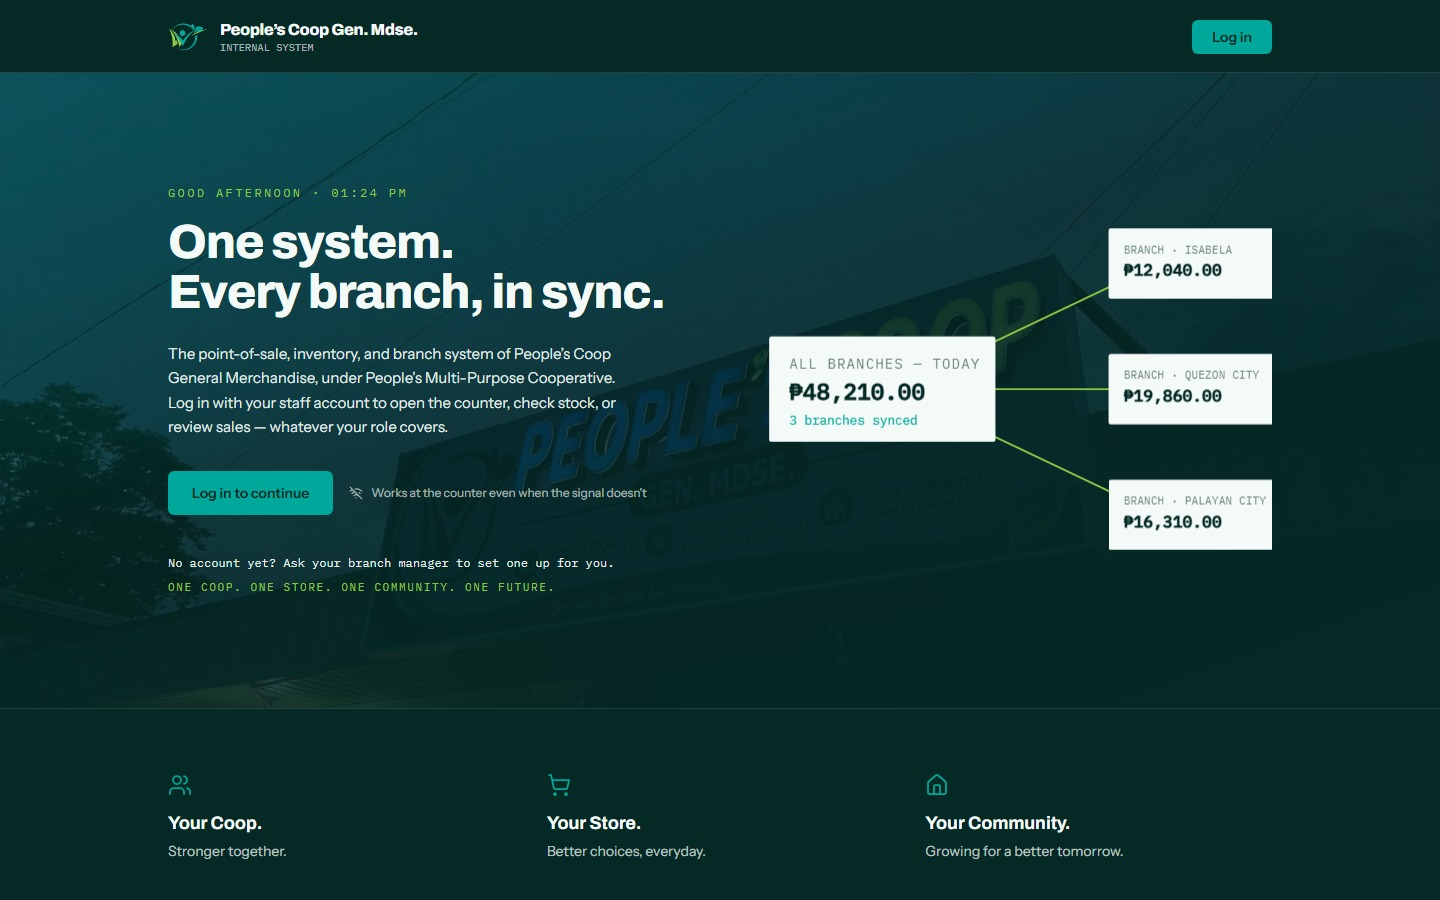
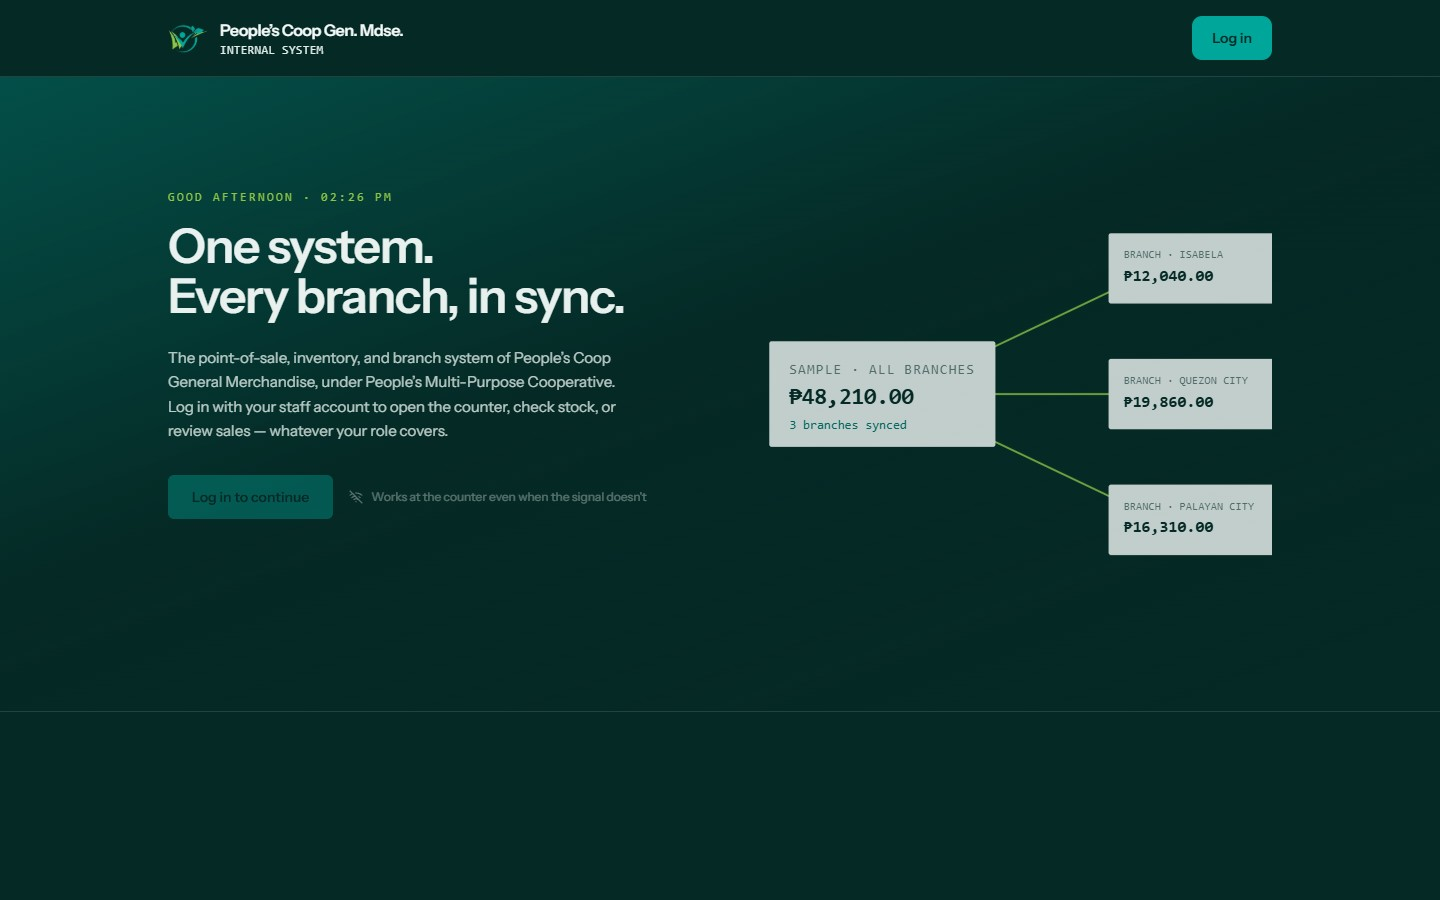
Use live-site screenshots and drop test-count claims
- Retake PIS, General Merchandise, WorkForce and gym landing screenshots
  from the live public pages; regenerate optimized copies and manifest
- Remove gym 119 Pest, DepEd 19 PHPUnit and WorkForce 480-test claims and
  the PHPUnit & Pest / Pest tags from site copy and the résumé PDF
- Update the spec tests that asserted the old text

diff --git a/src/data/projectData.js b/src/data/projectData.js
@@ -84,7 +84,7 @@ export const projectDetails = {
       "Deployed payroll preparation: replaced the input table with a four-step payroll wizard that pays hours from the DTR, one batch per month and cutoff, with office assignment, DTR mismatch flags, rate-change checks, peso-cent rounding, saved calculation snapshots, type-over on any number, DOLE holiday-work pay, and server-side 13th-month draft recalculation. Pre-hire payroll days and Export all DTRs were added.",
       "Deployed management exports: implemented monthly Excel workbooks in the October layout with office/cutoff sections, deduction details, typed totals and adjustment columns, sign-offs, a Prepared by signature, and layout/capacity safeguards; corrected workbook formatting and voucher balance.",
       "Deployed HR and payslip controls: implemented employee identity confirmation, HR approval/return and office transfers, pre-setup payroll-office assignment, required private signature uploads, and finalized-only employee payslip access while retaining existing credentials, attendance links, and historical payroll.",
-      "Reliability and release scope: improved request validation, atomic payroll persistence, loading/navigation behavior, and keyboard/form accessibility. Schedules, task board, final DTR review, the payroll wizard, 13th-month recalculation, Excel exports, and HR account setup are deployed; the latest release passed 480 of 480 PHP tests. The Dues page, Payroll day button, and Step 3 screen are logged without an on-screen live check. Payroll compliance is not independently certified."
+      "Reliability and release scope: improved request validation, atomic payroll persistence, loading/navigation behavior, and keyboard/form accessibility. Schedules, task board, final DTR review, the payroll wizard, 13th-month recalculation, Excel exports, and HR account setup are deployed. The Dues page, Payroll day button, and Step 3 screen are logged without an on-screen live check. Payroll compliance is not independently certified."
     ],
     stack: ["Laravel", "React", "Inertia.js", "Tailwind CSS"],
     previewCallout: {
@@ -159,33 +159,32 @@ export const projectDetails = {
   },
   gym: {
     decisionSummary: "Rebuild the tightly coupled PHP platform on Laravel rather than patching its security issues individually.",
-    resultSummary: "Solo-built and defended the gym platform; the Laravel rebuild includes 119 passing Pest tests.",
+    resultSummary: "Solo-built and defended the gym platform; the Laravel rebuild adds role-based access, QR attendance, POS, and analytics.",
     id: "gym",
     title: "Boiyet's Fitness Gym Management System",
     ticketId: "Thesis Project & Client Platform",
-    stamp: "119 Passing Tests · Laravel 12 Rebuild",
+    stamp: "Laravel 12 Rebuild",
     roleTag: "Solo Full-Stack Developer",
-    statusBadge: '<span class="status-dot-green"></span> Production-Tested Rebuild',
-    badge: "Solo Full-Stack · 119 Passing Tests",
-    cardSummary: "Solo rebuilt a gym management thesis platform with role-based access and 119 passing Pest tests.",
-    desc: "Solo-built and later rebuilt member management and revenue platform after a self-conducted security audit surfaced real vulnerabilities in the original PHP build (public file storage, missing upload validation). Rearchitected on Laravel 12 with Inertia.js and React, covering 28 domain tables and 86 protected routes (92 total) with role-based access, backed by 119 passing Pest tests.\n\nBeyond core gym operations, the platform includes a relational workout plan builder (exercises, sets, reps, difficulty tiers), structured nutrition and meal planning with macro tracking, and client-facing progress logging for body metrics and completed workouts, giving trainers and clients a full coaching loop, not just administrative tooling.",
+    statusBadge: '<span class="status-dot-green"></span> Live Demo Rebuild',
+    badge: "Solo Full-Stack · Laravel 12 Rebuild",
+    cardSummary: "Solo rebuilt a gym management thesis platform on Laravel 12 with role-based access, QR attendance, POS, and analytics.",
+    desc: "Solo-built and later rebuilt member management and revenue platform after a self-conducted security audit surfaced real vulnerabilities in the original PHP build (public file storage, missing upload validation). Rearchitected on Laravel 12 with Inertia.js and React, covering 28 domain tables and 86 protected routes (92 total) with role-based access.\n\nBeyond core gym operations, the platform includes a relational workout plan builder (exercises, sets, reps, difficulty tiers), structured nutrition and meal planning with macro tracking, and client-facing progress logging for body metrics and completed workouts, giving trainers and clients a full coaching loop, not just administrative tooling.",
     caseStudy: {
       problem: "The original PHP thesis build had critical security issues I discovered post-defense: publicly accessible file storage, missing upload validation, no CSRF protection, and raw SQL queries vulnerable to injection.",
       decision: "Full rebuild on Laravel 12 with Inertia.js and React rather than patching. The original architecture made incremental fixes impractical because routing, auth, and data access were tightly coupled with no separation of concerns.",
       implementation: "Designed 28 normalized domain tables from scratch. Implemented 86 protected routes across 92 total with RBAC gates (Admin, Trainer, Client). Built contactless QR attendance with a 5-minute (300-second) server-side attendance state machine (checks in, returns 'already checked in' on repeat scans within 5 minutes, checks out and calculates duration after 5 minutes), POS with receipt generation, Chart.js analytics dashboards, and streamed CSV report exports with UTF-8 BOM for Excel/Sheets compatibility.",
-      tradeoffs: "Full rebuild cost ~3 months vs. patching in weeks. Justified because the original had no tests, no middleware, and adding security retroactively would have required rewriting most controllers anyway. Also gained 119 Pest tests covering auth, gates, registration, and attendance flows.",
-      result: "All original thesis features preserved with proper security (CSRF, validated uploads, private storage, parameterized queries). 119 passing Pest tests. Public repository available for code inspection."
+      tradeoffs: "Full rebuild cost ~3 months vs. patching in weeks. Justified because the original had no middleware, and adding security retroactively would have required rewriting most controllers anyway.",
+      result: "All original thesis features preserved with proper security (CSRF, validated uploads, private storage, parameterized queries). Public repository available for code inspection."
     },
     demoUrl: "https://gym-management-systemv2.vercel.app/",
     codeUrl: "https://github.com/kurt-farinas/gym-management-systemv2",
     highlights: [
       "Security-Driven Full-Stack Rebuild: Rearchitected on Laravel 12 with Inertia.js and React, covering 28 domain tables and 86 protected routes (92 total) with strict role-based access.",
-      "119 Passing Pest Tests: Built comprehensive test coverage across authentication, authorization gates, member registration, and attendance tracking.",
       "Server-Side QR Attendance State Machine: 5-minute (300-second) server-side state machine that checks in, returns 'already checked in' on repeat scans within 5 minutes, and checks out with duration calculation after 5 minutes.",
       "Chart.js Analytics & Financials: Interactive revenue trend curves, expense breakdowns, net profit tracking, and member BMI/strength progress dashboards.",
       "POS Receipts & Streamed CSV Reports: POS receipt generation alongside streamed CSV financial reports with UTF-8 BOM for Excel/Sheets compatibility."
     ],
-    stack: ["Laravel 12", "Inertia.js", "React", "Tailwind CSS", "MySQL", "Pest", "QR"],
+    stack: ["Laravel 12", "Inertia.js", "React", "Tailwind CSS", "MySQL", "QR"],
     slides: [
       { src: '/boiyets-landing.png', label: "Boiyet's Gym Landing Page", tab: 'Landing' },
       { src: '/gym-admin.png', label: 'Admin Dashboard · Financials & User Access', tab: 'Admin' },
@@ -216,7 +215,7 @@ export const timelineData = [
     id: 2,
     date: "FEB - MAR 2026 (342 HOURS)",
     title: "Software Developer Intern (OJT) | DepEd San Jose",
-    desc: "Led the React, Inertia.js, and Tailwind CSS frontend for three approval roles, e-signatures, and print-ready forms. Denver Ballesteros developed the Laravel backend. Wrote 19 PHPUnit tests and earned a 98/100 OJT rating.",
+    desc: "Led the React, Inertia.js, and Tailwind CSS frontend for three approval roles, e-signatures, and print-ready forms. Denver Ballesteros developed the Laravel backend. Earned a 98/100 OJT rating.",
     badge: "98/100 OJT RATING",
     isFeatured: true
   },

diff --git a/tests/projectData.test.js b/tests/projectData.test.js
@@ -39,15 +39,14 @@ describe('React Project Data Integrity', () => {
     expect(hris.slides).toHaveLength(3);
   });
 
-  it('verifies Boiyet Gym project Laravel 12 & Pest Rebuild details', () => {
+  it('verifies Boiyet Gym project Laravel 12 Rebuild details', () => {
     const gym = projectDetails.gym;
     expect(gym.title).toContain("Boiyet's");
     expect(gym.roleTag).toBe('Solo Full-Stack Developer');
     expect(gym.stack).toContain('Laravel 12');
     expect(gym.stack).toContain('Inertia.js');
     expect(gym.stack).toContain('React');
-    expect(gym.stack).toContain('Pest');
-    expect(gym.badge).toContain('119 Passing Tests');
+    expect(gym.badge).toContain('Laravel 12 Rebuild');
     expect(gym.slides).toHaveLength(4);
     expect(gym.slides[0].src).toBe('/boiyets-landing.png');
     expect(gym.slides[1].src).toBe('/gym-admin.png');

diff --git a/tests/skills-section.behavior.test.jsx b/tests/skills-section.behavior.test.jsx
@@ -32,7 +32,7 @@ describe('read-only Stack rows', () => {
       Backend: ['Laravel', 'PHP', 'FastAPI', 'Python'],
       Data: ['MySQL', 'SQLite'],
       Languages: ['Java'],
-      Tools: ['PHPUnit & Pest', 'Git / GitHub']
+      Tools: ['Git / GitHub']
     };
     const renderedRows = [...host.querySelectorAll('.studio-skill-row')].map((row) => ({
       category: row.querySelector('.studio-skill-category').textContent,

diff --git a/src/components/common/CommandPalette.jsx b/src/components/common/CommandPalette.jsx
@@ -104,7 +104,7 @@ export default function CommandPalette() {
       id: 'open-gym',
       group: 'Project Deep Dive',
       title: "Open Boiyet's Gym Management System",
-      subtitle: 'Solo Rebuild · Laravel 12 & Inertia.js · 119 Pest Tests',
+      subtitle: 'Solo Rebuild · Laravel 12 & Inertia.js',
       icon: 'layers',
       shortcut: '2',
       handler: () => openProjectModal('gym')

diff --git a/src/data/portfolioFacts.js b/src/data/portfolioFacts.js
@@ -19,7 +19,7 @@ export const technologyGroups = {
   Backend: ['Laravel', 'PHP', 'FastAPI', 'Python'],
   Data: ['MySQL', 'SQLite'],
   Languages: ['Java'],
-  Tools: ['PHPUnit & Pest', 'Git / GitHub']
+  Tools: ['Git / GitHub']
 };
 
 export const portfolioProjects = featuredProjectIds.map(id => projectDetails[id]);

diff --git a/docs/pmpc-contribution-audit.md b/docs/pmpc-contribution-audit.md
@@ -65,6 +65,6 @@ Only PMPC descriptive fields change in src/data/projectData.js. Existing cards, 
 Scope: contributions September 16–November 16, 2026. Evidence is each system's DEPLOYMENTS.md (PIS read from origin/main, since the checked-out branch is stale), CHANGELOG/REQUESTS, and the General Merchandise report dated October 30, 2026. Scouted read-only; live sites were not checked.
 
 - **PIS**: 177 logged deploys (Oct 22–Nov 16). New: batch register actions, December 31, 2025 opening balances, simpler staff-confirmed member import, member archive/restore, email sign-in, KaagapayAI staff assistant (live Nov 11, Anthropic API; Gemini/Ollama/Qwen trials not adopted), public-site redesign and Home page editor, code audit. Scan-reading (OCR-style) import was removed. Batch actions, email sign-in and Excel Petty Cash entry are logged without a signed-in live check. Every human commit is Kurt's under two identities; three October 28 commits are authored "Claude".
-- **WorkForce/DTR**: 99 logged deploys (Oct 17–Nov 13). New: task board, repeating tasks, Today and Dues views, dashboard holidays. Extended: two-punch/half-day rules, effective-dated schedules, four-step payroll wizard, October-layout Excel with sign-offs. Latest release: 480 of 480 PHP tests. The Dues page, Payroll day button and Step 3 screen are logged as not seen live.
+- **WorkForce/DTR**: 99 logged deploys (Oct 17–Nov 13). New: task board, repeating tasks, Today and Dues views, dashboard holidays. Extended: two-punch/half-day rules, effective-dated schedules, four-step payroll wizard, October-layout Excel with sign-offs. The Dues page, Payroll day button and Step 3 screen are logged as not seen live.
 - **General Merchandise**: shared stock counting, monthly ending-inventory report, movement journal and month-end balance report are deployed (Oct 29–Nov 10). This supersedes the earlier local-only label for inventory valuation and monthly reports. Payment/refund/stock-batch/offline-sale audit safeguards remain local. "Stale-stock safeguards" has no deploy evidence and was dropped. Mobile widths 320/390/768/1024 were verified for the October 1 release only.
-- **Open items**: gym test count (119) is unconfirmed; "19 PHPUnit tests" on the DepEd timeline entry is unverified; Job Hunt Ledger is not on the résumé.
+- **Open items**: test-count claims (gym 119 Pest, DepEd 19 PHPUnit, WorkForce 480) were removed from site copy and résumé on Nov 16 at Kurt's request; Job Hunt Ledger is not on the résumé.

diff --git a/public/images/projects/README.md b/public/images/projects/README.md
@@ -11,3 +11,5 @@ Updated October 13, 2026. Each entry records its public, synthetic, or local scr
 - `pmpc-workforce-dashboard.png`: Retained employee dashboard preview rendered from WorkForce `resources/js/Pages/Employee/Dashboard.jsx` and its EmployeeLayout/UI components using compiled application CSS. Captured at 1440px on October 12 in an isolated loopback preview. Identity is synthetic (Demo Employee, DEMO-001); attendance, tasks, notifications and payroll are empty. No database, credentials, production session or financial records were used. This image is retained but is no longer the selected portfolio screenshot.
 
 Card previews use a 16:10 frame with `contain`; dialogs and lightboxes retain each original image's dimensions and full image.
+
+- Refreshed November 16, 2026 from the live public pages with headless Chrome: `pmpc-pis-landing.webp` (https://peoplesmpcoop.com/, 1425×958, top clock bar cropped), `pmpc-gen-mdse.jpg` (https://genmdse.peoplesmpcoop.com/, 1440×900), `pmpc-workforce.png` (https://peoplescoopdtr.online/ sign-in, 1440×900, empty fields), and `public/boiyets-landing.png` (https://gym-management-systemv2.vercel.app/ landing, 1440×900; shows the demo's published test accounts). No sign-in or private records were used. The gym Admin/Trainer/Client screenshots were not retaken because they need a sign-in.
